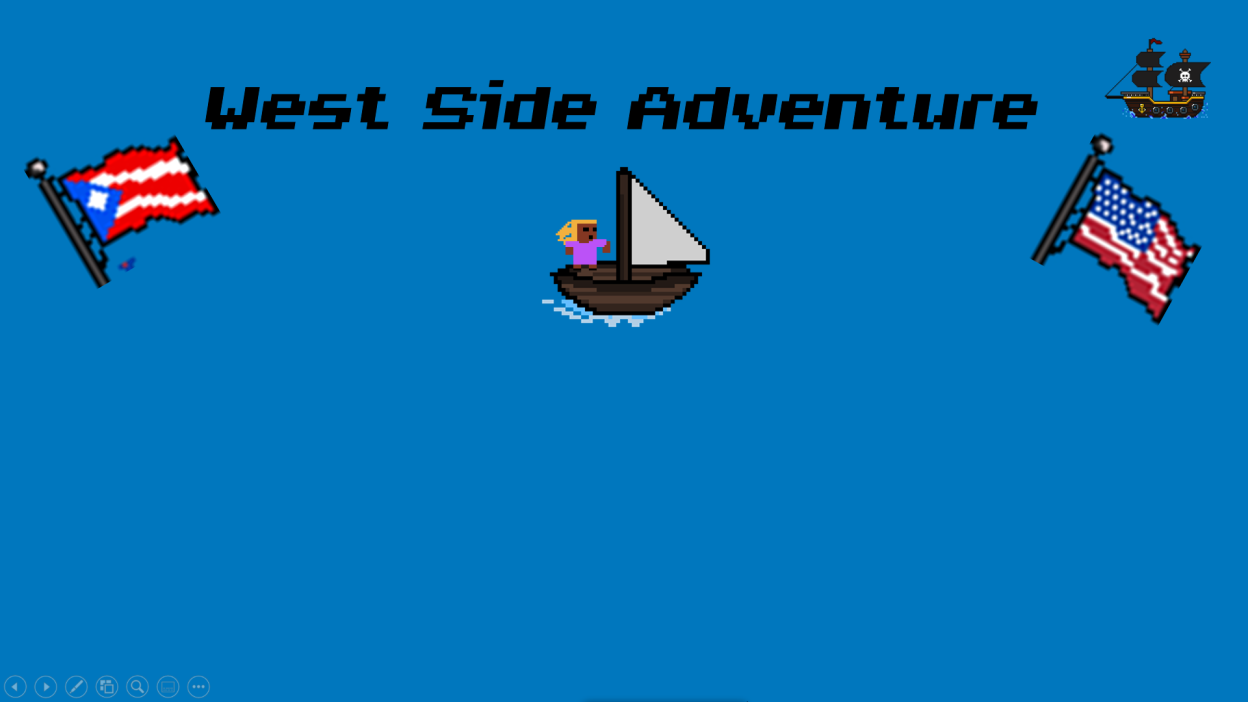
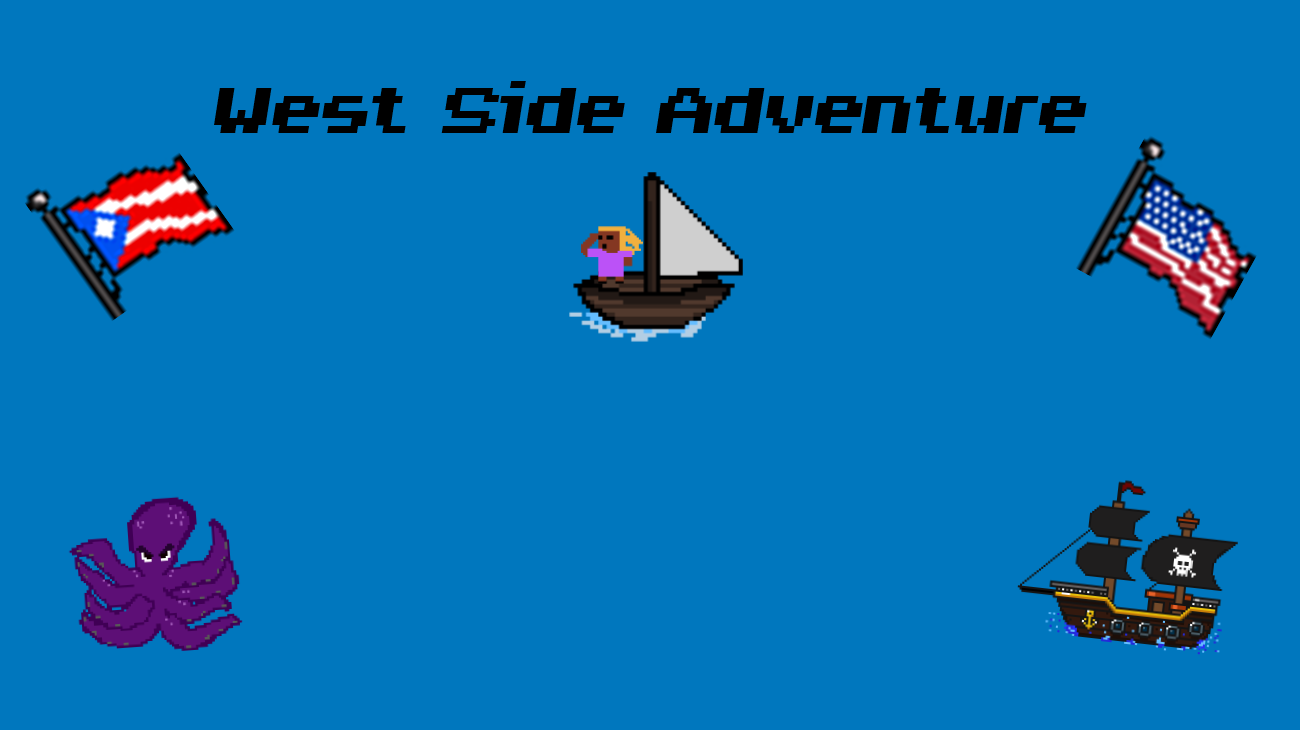
changed background image menu

diff --git a/core/src/org/academiadecodigo/gitbusters/programazores/menu/MainMenuScreen.java b/core/src/org/academiadecodigo/gitbusters/programazores/menu/MainMenuScreen.java
@@ -23,6 +23,7 @@ public class MainMenuScreen extends ApplicationAdapter {
     private Skin skin;
     private Label outputLabel;
 
+
     @Override
     public void create() {
 
@@ -42,7 +43,7 @@ public class MainMenuScreen extends ApplicationAdapter {
 
         Drawable play = new TextureRegionDrawable(new TextureRegion(new Texture("play-button.png")));
         ImageButton playGameBtn = new ImageButton(play);
-        playGameBtn.setPosition(Gdx.graphics.getWidth() / 2 - 500, Gdx.graphics.getWidth() / 8 + 20 + 100);
+        playGameBtn.setPosition(Gdx.graphics.getWidth() / 2 -370, Gdx.graphics.getWidth() / 8 + 120);
         playGameBtn.addListener(new ClickListener() {
             @Override
             public void clicked(InputEvent event, float x, float y) {
@@ -54,7 +55,7 @@ public class MainMenuScreen extends ApplicationAdapter {
 
         Drawable instructions = new TextureRegionDrawable(new TextureRegion(new Texture("instructions-button.png")));
         ImageButton instructionsBtn = new ImageButton(instructions);
-        instructionsBtn.setPosition(Gdx.graphics.getWidth() / 2 - 500, Gdx.graphics.getWidth() / 8 - 120);
+        instructionsBtn.setPosition(Gdx.graphics.getWidth() / 2 - 370, Gdx.graphics.getWidth() / 8 - 120);
         instructionsBtn.addListener(new ClickListener() {
             @Override
             public void clicked(InputEvent event, float x, float y) {
@@ -65,7 +66,7 @@ public class MainMenuScreen extends ApplicationAdapter {
 
         Drawable settings = new TextureRegionDrawable(new TextureRegion(new Texture("settings-button.png")));
         ImageButton settingsBtn = new ImageButton(settings);
-        settingsBtn.setPosition(Gdx.graphics.getWidth() / 2, Gdx.graphics.getWidth() / 8 - 3);
+        settingsBtn.setPosition(Gdx.graphics.getWidth() / 2, Gdx.graphics.getWidth() / 8 );
         settingsBtn.addListener(new ClickListener() {
             @Override
             public void clicked(InputEvent event, float x, float y) {
@@ -76,7 +77,7 @@ public class MainMenuScreen extends ApplicationAdapter {
 
         Drawable lore = new TextureRegionDrawable(new TextureRegion(new Texture("lore-button.png")));
         ImageButton loreBtn = new ImageButton(lore);
-        loreBtn.setPosition(Gdx.graphics.getWidth() / 2 - 500, Gdx.graphics.getWidth() / 8);
+        loreBtn.setPosition(Gdx.graphics.getWidth() / 2 - 370, Gdx.graphics.getWidth() / 8);
         loreBtn.addListener(new ClickListener() {
             @Override
             public void clicked(InputEvent event, float x, float y) {
@@ -87,7 +88,7 @@ public class MainMenuScreen extends ApplicationAdapter {
 
         Drawable shop = new TextureRegionDrawable(new TextureRegion(new Texture("shop-button.png")));
         ImageButton shopBtn = new ImageButton(shop);
-        shopBtn.setPosition(Gdx.graphics.getWidth() / 2, Gdx.graphics.getWidth() / 8 + 20 + 100);
+        shopBtn.setPosition(Gdx.graphics.getWidth() / 2, Gdx.graphics.getHeight() / 8 + 180);
         shopBtn.addListener(new ClickListener() {
             @Override
             public void clicked(InputEvent event, float x, float y) {

diff --git a/core/src/org/academiadecodigo/gitbusters/programazores/WestSideAdventure.java b/core/src/org/academiadecodigo/gitbusters/programazores/WestSideAdventure.java
@@ -71,7 +71,7 @@ public class WestSideAdventure extends ApplicationAdapter {
 
         batch.begin();
 
-        camera.position.set(boat.getBoat().getX(), boat.getBoat().getY(), 0);
+        camera.position.set(boat.getBoat().getX() + 1350, boat.getBoat().getY(), 0);
         drawImages();
 
         //backgroundMusic.isLooping();
